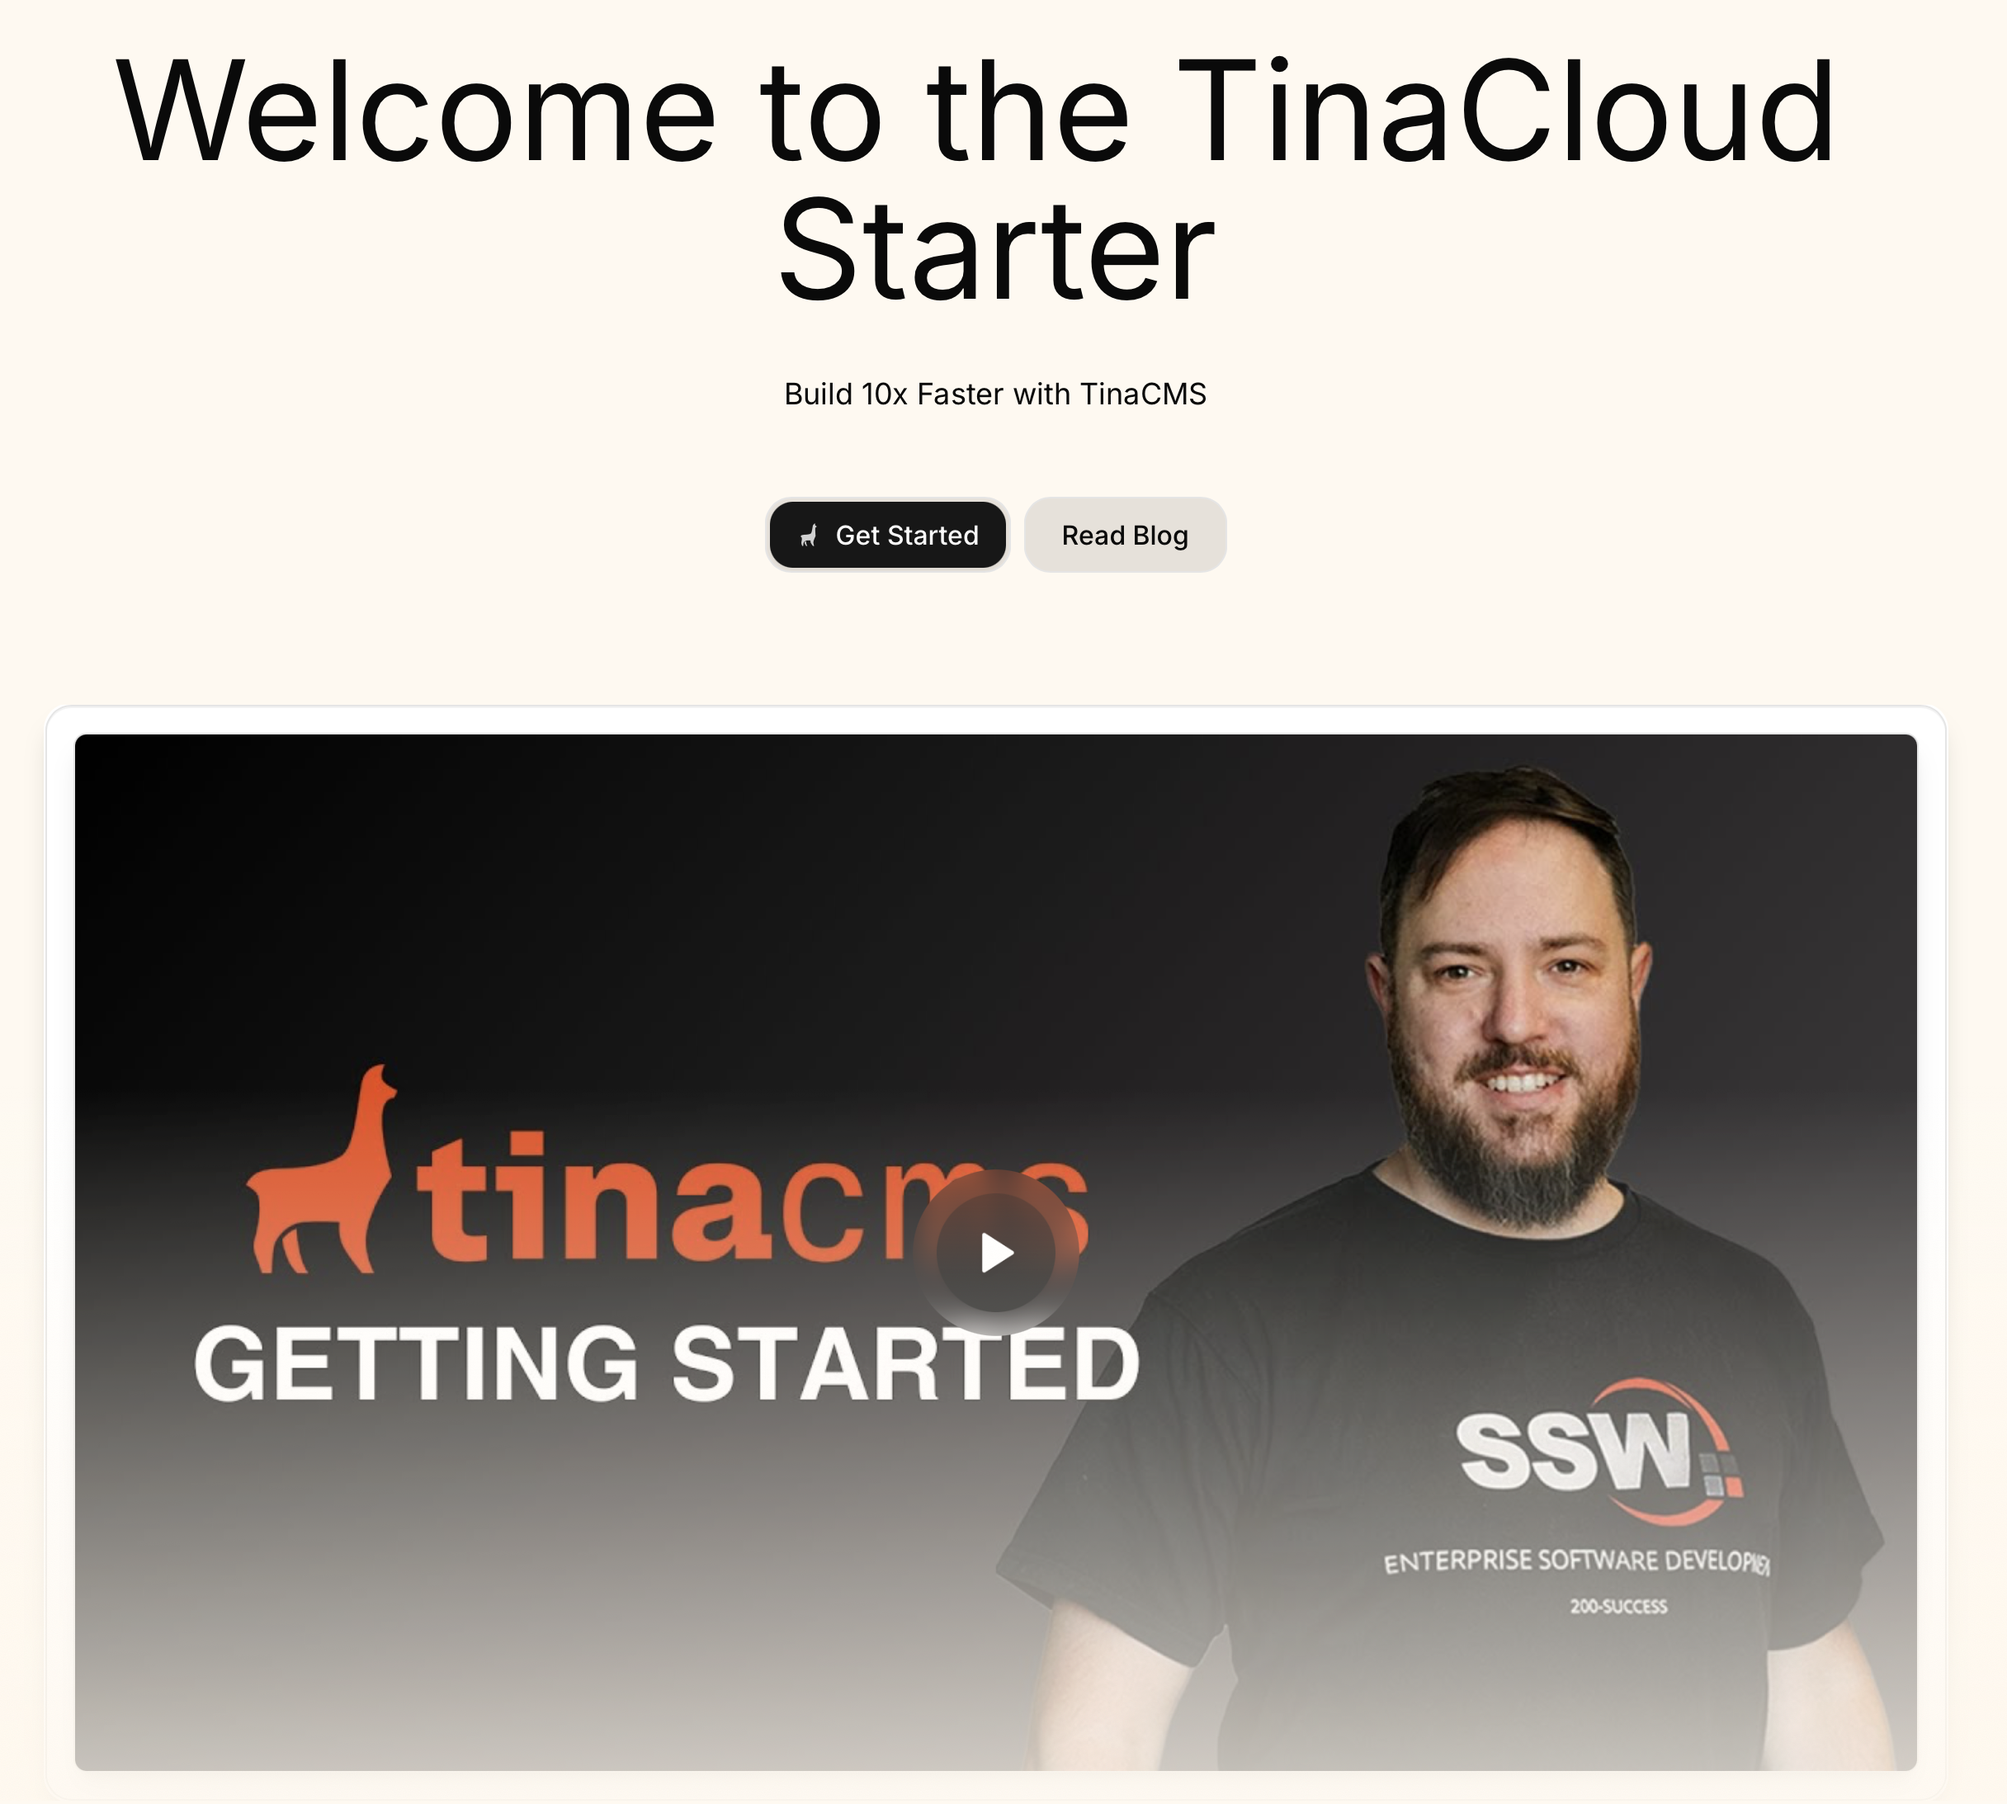
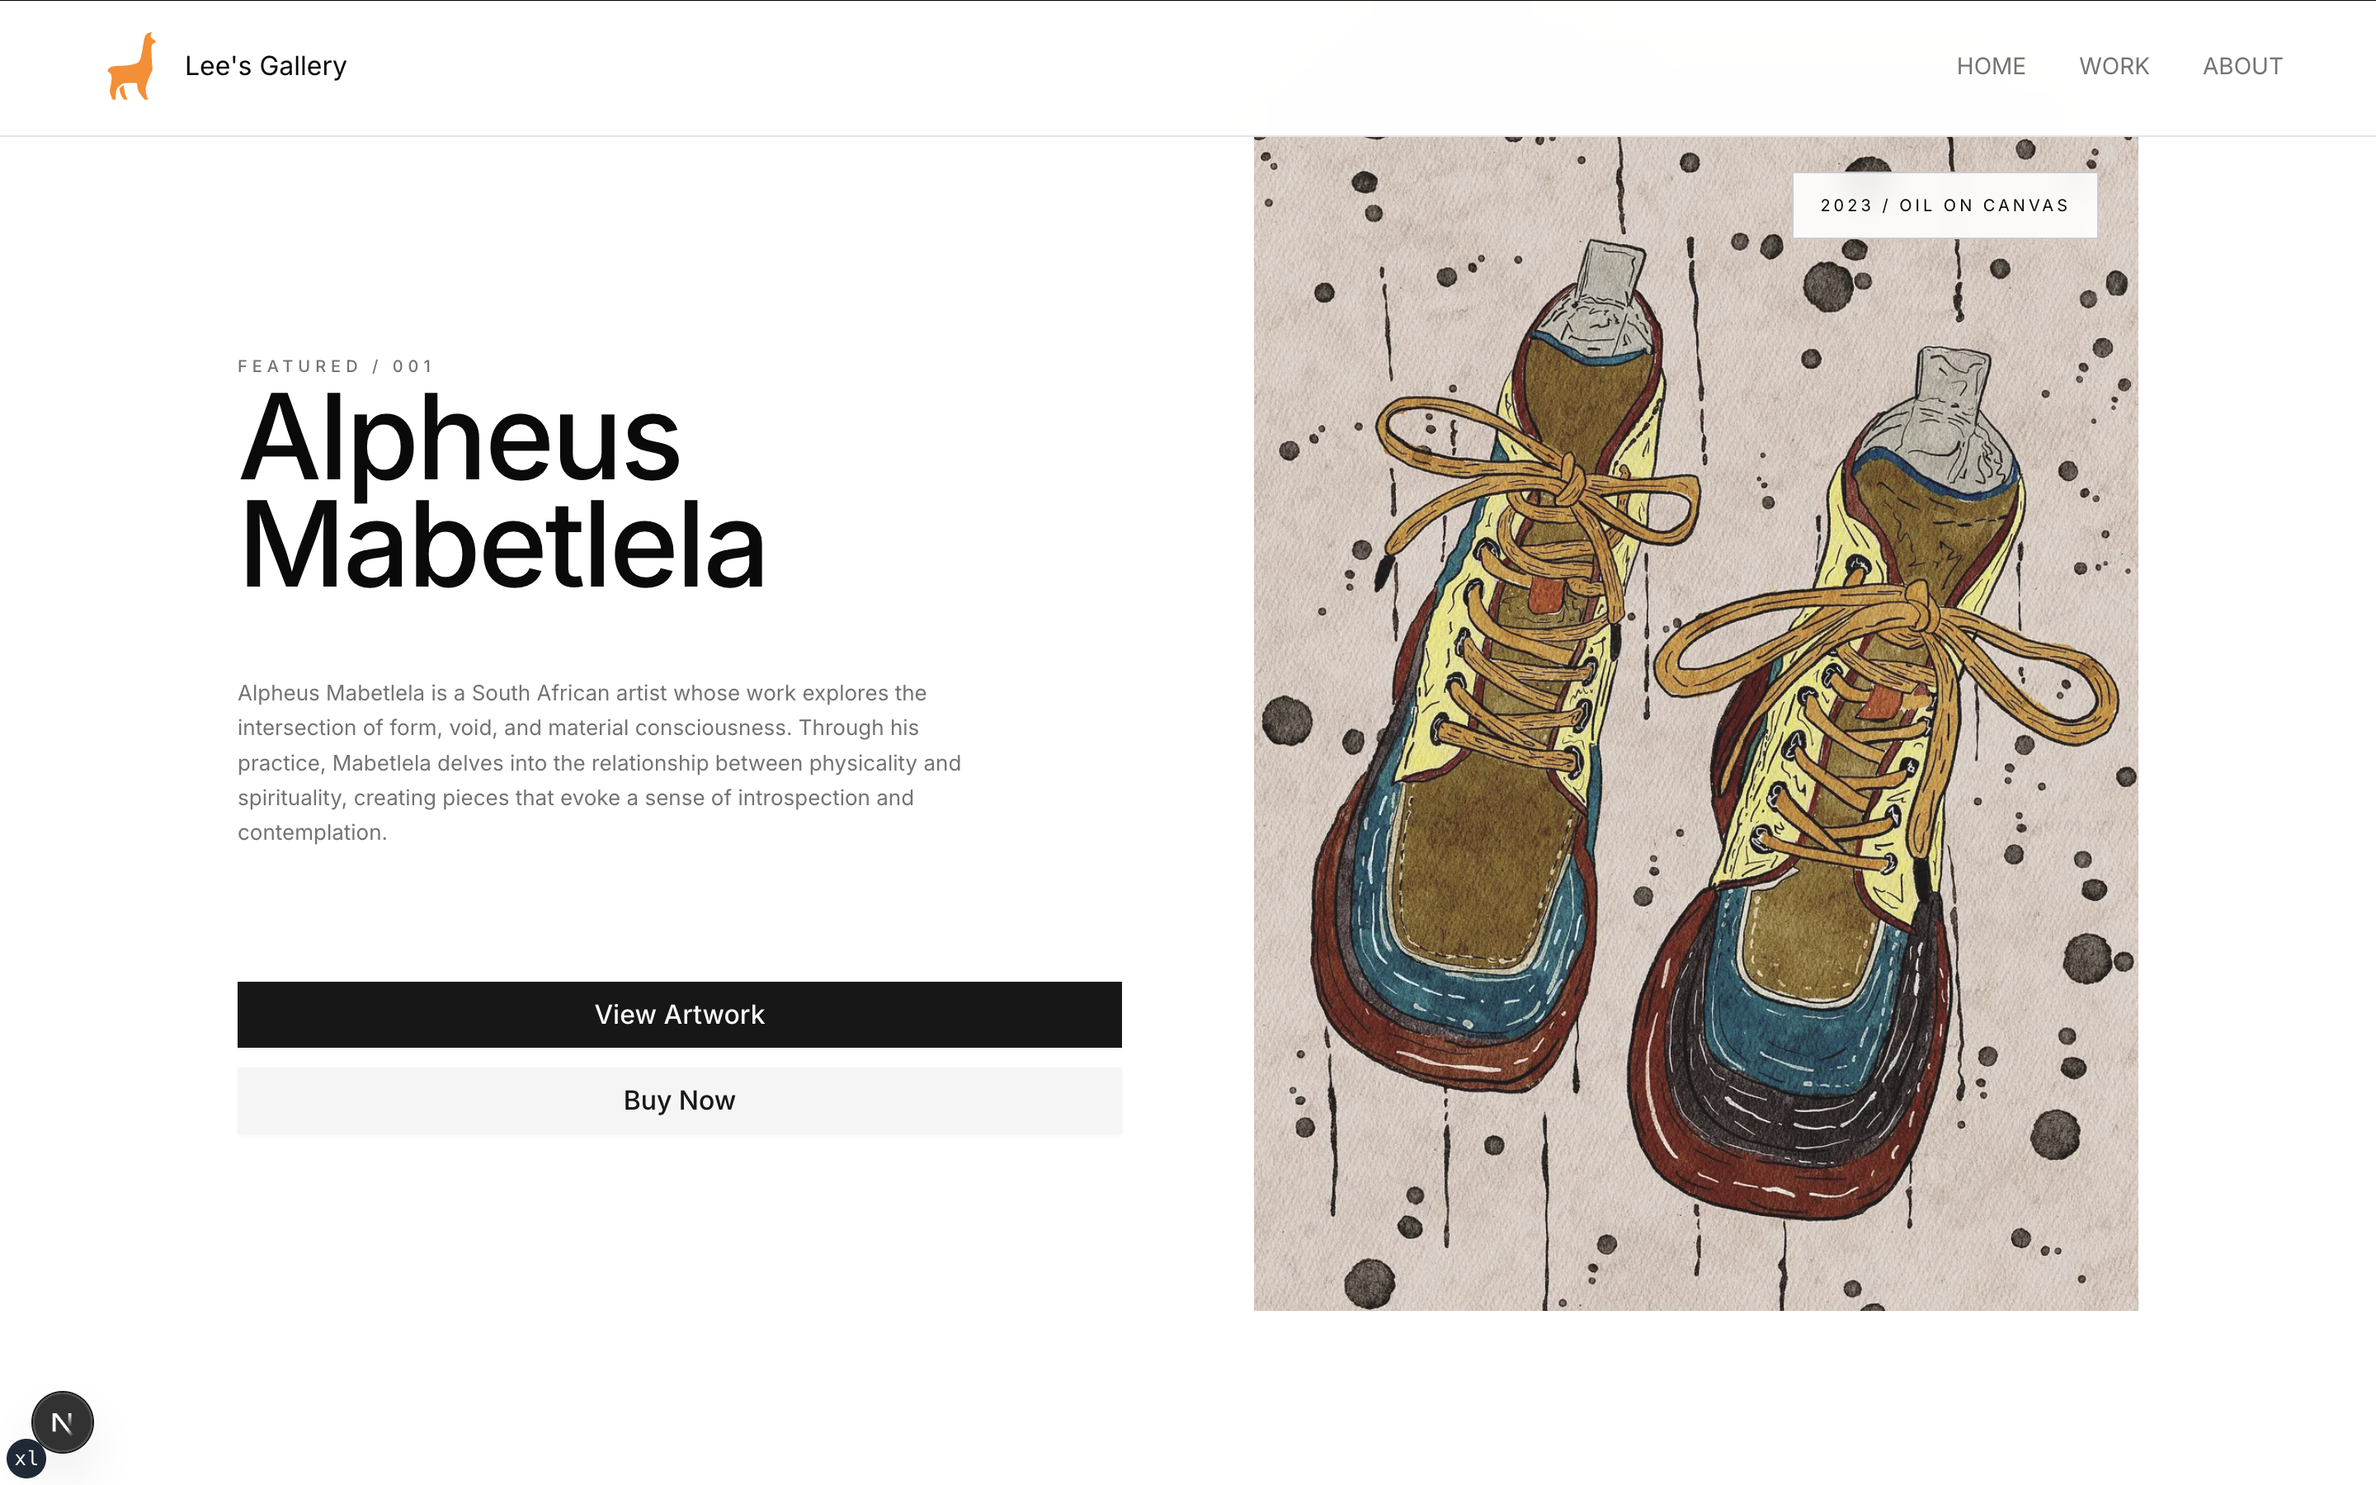
add hero

diff --git a/components/blocks/hero.tsx b/components/blocks/hero.tsx
@@ -1,11 +1,15 @@
 "use client";
 import * as React from "react";
-import type { Template } from "tinacms";
+import { type Template } from "tinacms";
 import { tinaField } from "tinacms/dist/react";
-import { PageBlocksHero } from "../../tina/__generated__/types";
+import { PageBlocksHero } from "@/tina/__generated__/types";
 import { Section, sectionBlockSchemaField } from "../layout/section";
-import { TextEffect } from "../motion-primitives/text-effect";
-import { Transition } from "motion/react";
+import { motion } from "motion/react";
+import Link from "next/link";
+import Image from "next/image";
+import { iconSchema } from "@/tina/fields/icon";
+import { Icon } from "../icon";
+import { Button } from "../ui/button";
 
 export const Hero = ({ data }: { data: PageBlocksHero }) => {
   // Extract the background style logic into a more readable format
@@ -29,42 +33,91 @@ export const Hero = ({ data }: { data: PageBlocksHero }) => {
       className="m-0 p-0 max-w-full my-0"
       style={gradientStyle}
     >
-      <div className="lg:mr-auto px-6 md:px-10 lg:px-14 h-[90vh] flex flex-col justify-center w-full">
-        {data.title && (
-          <div data-tina-field={tinaField(data, "title")}>
-            <TextEffect
-              preset="fade-in-blur"
-              speedSegment={0.3}
-              as="h1"
-              style={{
-                fontSize: "clamp(3.5rem, 12vw, 11rem)",
-                letterSpacing: "-0.03em",
-                lineHeight: "0.92",
-              }}
-              className="mt-8 sm:mb-10 mb-4 font-semibold md:mb-16 max-w-5xl "
-            >
-              {data.title!}
-            </TextEffect>
-          </div>
-        )}
-        {data.tagline && (
-          <div data-tina-field={tinaField(data, "tagline")}>
-            <TextEffect
-              per="line"
-              preset="fade-in-blur"
-              speedSegment={0.3}
-              delay={0.5}
-              as="p"
-              className="max-w-2xl text-gray-500 text-lg font-normal text-balance "
-              style={{
-                letterSpacing: "0.01em",
-                lineHeight: "1.6",
-              }}
-            >
-              {data.tagline!}
-            </TextEffect>
-          </div>
-        )}
+      <div className="max-w-7xl mx-auto px-6 lg:px-16 w-full">
+        <div className="grid md:grid-cols-2 gap-20 items-start">
+          <motion.div
+            initial={{ opacity: 0 }}
+            animate={{ opacity: 1 }}
+            transition={{ duration: 1.2, ease: [0.16, 1, 0.3, 1] }}
+            className="space-y-12 md:sticky md:top-32"
+          >
+            <div className="space-y-8">
+              <span className="text-[10px] tracking-[0.3em] uppercase text-muted-foreground font-medium">
+                Featured / 001
+              </span>
+
+              <h1
+                data-tina-field={tinaField(data, "artist")}
+                className="text-5xl md:text-6xl lg:text-7xl tracking-tight leading-[0.9] font-medium"
+              >
+                {data.artist}
+              </h1>
+
+              <div className="space-y-4 pt-4">
+                <p
+                  className="text-[13px] text-muted-foreground leading-relaxed max-w-md"
+                  data-tina-field={tinaField(data, "description")}
+                >
+                  {data.description}
+                </p>
+              </div>
+            </div>
+
+            <div className="flex flex-col gap-3 pt-8">
+              {data.actions?.map((action, index) => {
+                return (
+                  <Button
+                    key={index}
+                    data-tina-field={tinaField(action, `label`)}
+                    asChild
+                    size="lg"
+                    variant={action!.type === "link" ? "secondary" : "default"}
+                    className="rounded-none p-4 text-base"
+                  >
+                    <Link href={action!.link!}>
+                      {action?.icon && (
+                        <Icon
+                          data={action?.icon}
+                          data-tina-field={tinaField(action, `icon`)}
+                        />
+                      )}
+                      <span className="text-nowrap">{action!.label}</span>
+                    </Link>
+                  </Button>
+                );
+              })}
+            </div>
+          </motion.div>
+
+          <motion.div
+            initial={{ opacity: 0 }}
+            animate={{ opacity: 1 }}
+            transition={{ duration: 1.2, delay: 0.3, ease: [0.16, 1, 0.3, 1] }}
+          >
+            <div className="relative aspect-[3/4] bg-secondary">
+              <Image
+                src={data.image!}
+                alt={data.artist!}
+                data-tina-field={tinaField(data, "image")}
+                className="w-full h-full object-cover opacity-90"
+                fill
+              />
+
+              {/* Info Tag */}
+              <div className="absolute top-6 right-6 bg-background/90 backdrop-blur-sm px-4 py-3 border border-foreground/20">
+                <p className="text-[10px] tracking-[0.2em] uppercase">
+                  <span data-tina-field={tinaField(data, "year")}>
+                    {data.year}
+                  </span>{" "}
+                  /{" "}
+                  <span data-tina-field={tinaField(data, "medium")}>
+                    {data.medium}
+                  </span>
+                </p>
+              </div>
+            </div>
+          </motion.div>
+        </div>
       </div>
     </Section>
   );
@@ -76,22 +129,99 @@ export const heroBlockSchema: Template = {
   ui: {
     previewSrc: "/blocks/hero.png",
     defaultItem: {
-      tagline:
-        "Exploring the intersection of form, void, and material consciousness",
-      title: "ALpheus Mabetlela",
+      description:
+        "Alpheus Mabetlela is a South African artist whose work explores the intersection of form, void, and material consciousness. Through his practice, Mabetlela delves into the relationship between physicality and spirituality, creating pieces that evoke a sense of introspection and contemplation.",
+      artist: "Alpheus Mabetlela",
+      year: "2023",
+      medium: "Oil on Canvas",
+      slug: "alpheus-mabetlela",
+      image: "/artworks/alpheus-mabetlela.jpg",
+      actions: [
+        {
+          label: "View Artwork",
+          type: "button",
+          link: "/artworks/",
+        },
+        {
+          label: "Buy Now",
+          type: "link",
+          link: "/artworks/purchase",
+        },
+      ],
     },
   },
   fields: [
     sectionBlockSchemaField as any,
     {
       type: "string",
-      label: "Title",
-      name: "title",
+      label: "Artist",
+      name: "artist",
     },
     {
       type: "string",
-      label: "Tagline",
-      name: "tagline",
+      label: "Description",
+      name: "description",
+    },
+    {
+      type: "string",
+      label: "Year",
+      name: "year",
+    },
+    {
+      type: "string",
+      label: "Medium",
+      name: "medium",
+    },
+    {
+      type: "image",
+      label: "Image",
+      name: "image",
+    },
+    {
+      type: "string",
+      label: "Slug",
+      name: "slug",
+    },
+    {
+      label: "Actions",
+      name: "actions",
+      type: "object",
+      list: true,
+      ui: {
+        defaultItem: {
+          label: "Action Label",
+          type: "button",
+          icon: {
+            name: "Tina",
+            color: "white",
+            style: "float",
+          },
+          link: "/",
+        },
+        itemProps: (item) => ({ label: item.label }),
+      },
+      fields: [
+        {
+          label: "Label",
+          name: "label",
+          type: "string",
+        },
+        {
+          label: "Type",
+          name: "type",
+          type: "string",
+          options: [
+            { label: "Button", value: "button" },
+            { label: "Link", value: "link" },
+          ],
+        },
+        iconSchema as any,
+        {
+          label: "Link",
+          name: "link",
+          type: "string",
+        },
+      ],
     },
   ],
 };
